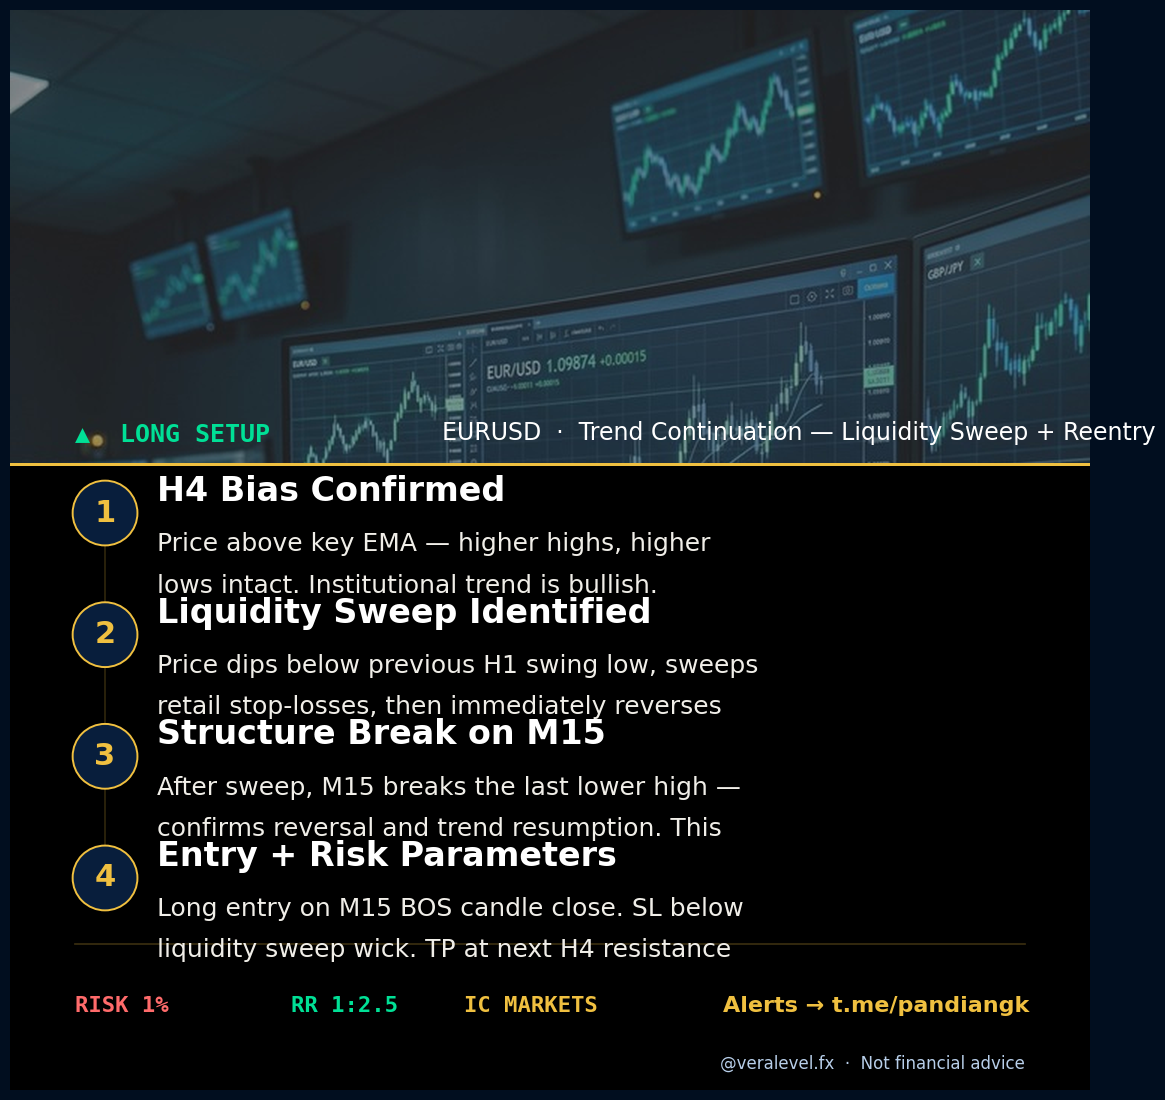
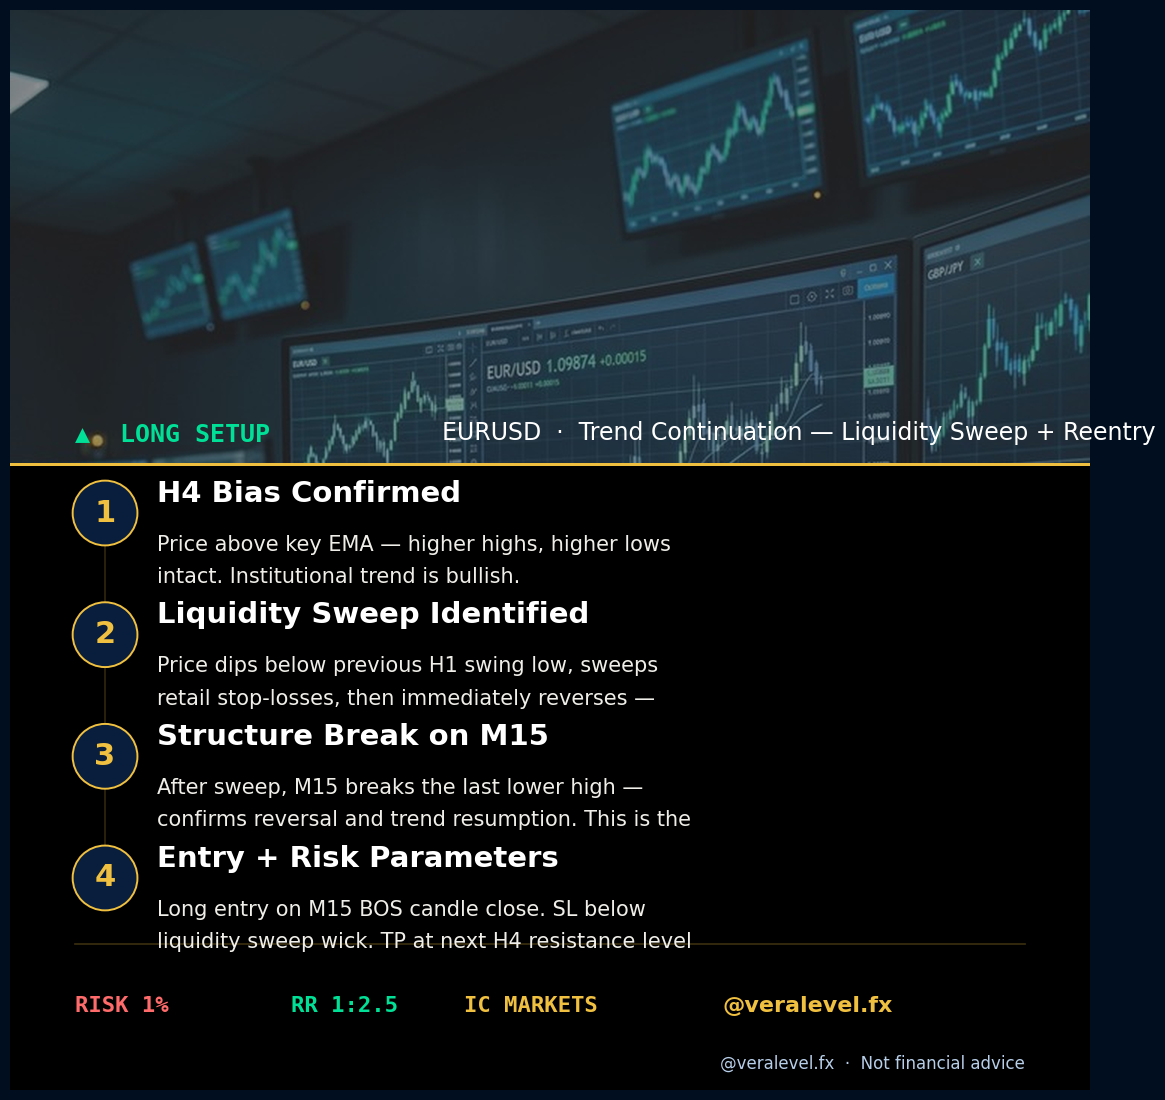
fix: pairs post overlap and setup post spacing
- Pairs: reduce pair name fontsize 80→40, merge full name into header line,
  push stat grid lower to eliminate text overlap
- Setup: reduce title/desc fontsizes (24→21, 18→15), tighten line gap
  (0.038→0.030) to fix step descriptions overlapping next step title
- Setup: replace Telegram ID with @veralevel.fx

Changed region(s): [[0.1236, 0.4327, 0.6489, 0.68], [0.1236, 0.7109, 0.6489, 0.8655], [0.618, 0.8964, 0.8961, 0.9273]]

diff --git a/instagram/generate_edu.py b/instagram/generate_edu.py
@@ -288,57 +288,51 @@ def make_pairs_post(content: dict):
     ax.set_xlim(0, 1); ax.set_ylim(0, 1); ax.axis('off')
     ax.imshow(bg, extent=[0, 1, 0, 1], aspect='auto', zorder=0)
 
-    # PAIR SPOTLIGHT label (at top of black panel)
-    ax.text(0.06, split_y - 0.028, 'PAIR SPOTLIGHT',
-            fontsize=17, color=GOLD, fontweight='bold',
+    # PAIR SPOTLIGHT + full name on one header line
+    full_name = content.get('full_name', '').upper()
+    ax.text(0.06, split_y - 0.028,
+            f'PAIR SPOTLIGHT  ·  {full_name}',
+            fontsize=13, color=GOLD, fontweight='bold',
             ha='left', va='center',
             transform=ax.transAxes, fontfamily='monospace', zorder=6)
 
-    # Pair name hero
-    ax.text(0.06, split_y - 0.105, pair,
-            fontsize=80, fontweight='black', color=WHITE,
+    # Pair name — reduced size to avoid clashing with stat grid
+    ax.text(0.06, split_y - 0.068, pair,
+            fontsize=40, fontweight='black', color=WHITE,
             ha='left', va='center', transform=ax.transAxes, zorder=6)
-    ax.text(0.06, split_y - 0.160, content.get('full_name', '').upper(),
-            fontsize=18, color=GOLD, fontweight='bold',
-            ha='left', va='center',
-            transform=ax.transAxes, fontfamily='monospace', zorder=6)
 
-    _hline(ax, split_y - 0.175, alpha=0.3)
+    _hline(ax, split_y - 0.108, alpha=0.3)
 
-    # Stat 2x2 grid
+    # Stat 2x2 grid — pushed well below the pair name
     stats = [
         ('BEST SESSION', content.get('best_session', ''),  GOLD),
         ('AVG SPREAD',   content.get('avg_spread', ''),    GREEN),
         ('VOLATILITY',   content.get('volatility', ''),    AMBER),
         ('MY EDGE',      content.get('my_edge', ''),       WHITE),
     ]
-    grid_top = split_y - 0.195
-    cw, ch = 0.425, 0.095
+    grid_top = split_y - 0.185
+    cw, ch = 0.425, 0.085
     xs = [0.06, 0.515]
-    ys = [grid_top, grid_top - 0.108]
+    ys = [grid_top, grid_top - 0.098]
 
     for i, (label, value, color) in enumerate(stats):
         cx, cy = xs[i % 2], ys[i // 2]
-        # Label
         ax.text(cx, cy + ch - 0.004, label,
                 fontsize=13, color=MUTED, fontweight='bold', va='top',
                 transform=ax.transAxes, fontfamily='monospace', zorder=6)
-        # Value (wrapped, no box)
-        val_lines = _wrap(str(value), 38)[:2]
-        line_gap = 0.028
+        val_lines = _wrap(str(value), 40)[:2]
         for k, vl in enumerate(val_lines):
-            ax.text(cx, cy + ch * 0.52 - k * line_gap, vl,
-                    fontsize=14, color=color, fontweight='bold', va='top',
+            ax.text(cx, cy + ch * 0.52 - k * 0.028, vl,
+                    fontsize=15, color=color, fontweight='bold', va='top',
                     transform=ax.transAxes, zorder=6, clip_on=True)
-        # Thin separator line below each cell
         ax.plot([cx, cx + cw], [cy, cy], color=color, linewidth=0.5, alpha=0.20,
                 transform=ax.transAxes, zorder=5)
 
     # CTA
-    cta_y = ys[1] - 0.055
-    _hline(ax, cta_y + 0.025, alpha=0.2)
+    cta_y = ys[1] - 0.050
+    _hline(ax, cta_y + 0.022, alpha=0.2)
     ax.text(0.06, cta_y, 'Trade with raw spreads  →  icmarkets.com/?camp=91936',
-            fontsize=16, fontweight='bold', color=GOLD,
+            fontsize=15, fontweight='bold', color=GOLD,
             ha='left', va='center', transform=ax.transAxes, zorder=6)
 
     # Footer
@@ -413,14 +407,14 @@ def make_setup_post(content: dict):
                     transform=ax.transAxes, zorder=5)
 
         # Title + description
-        ax.text(0.136, cy + 0.030, title,
-                fontsize=24, fontweight='bold', color=WHITE,
+        ax.text(0.136, cy + 0.028, title,
+                fontsize=21, fontweight='bold', color=WHITE,
                 va='center', transform=ax.transAxes, zorder=6)
-        desc_lines = _wrap(desc, 46)
+        desc_lines = _wrap(desc, 52)
         for j, dl in enumerate(desc_lines[:2]):
-            ax.text(0.136, cy - 0.008 - j * 0.038, dl,
-                    fontsize=18, color=CREAM, va='top',
-                    transform=ax.transAxes, zorder=6, linespacing=1.3)
+            ax.text(0.136, cy - 0.010 - j * 0.030, dl,
+                    fontsize=15, color=CREAM, va='top',
+                    transform=ax.transAxes, zorder=6, linespacing=1.2)
 
     # Bottom info (no boxes)
     _hline(ax, panel_bottom + 0.005, alpha=0.25)
@@ -435,7 +429,7 @@ def make_setup_post(content: dict):
             va='center', transform=ax.transAxes, fontfamily='monospace', zorder=5)
 
     # CTA
-    ax.text(0.66, 0.078, 'Alerts → t.me/pandiangk',
+    ax.text(0.66, 0.078, '@veralevel.fx',
             fontsize=16, fontweight='bold', color=GOLD,
             ha='left', va='center', transform=ax.transAxes, zorder=6)
 
